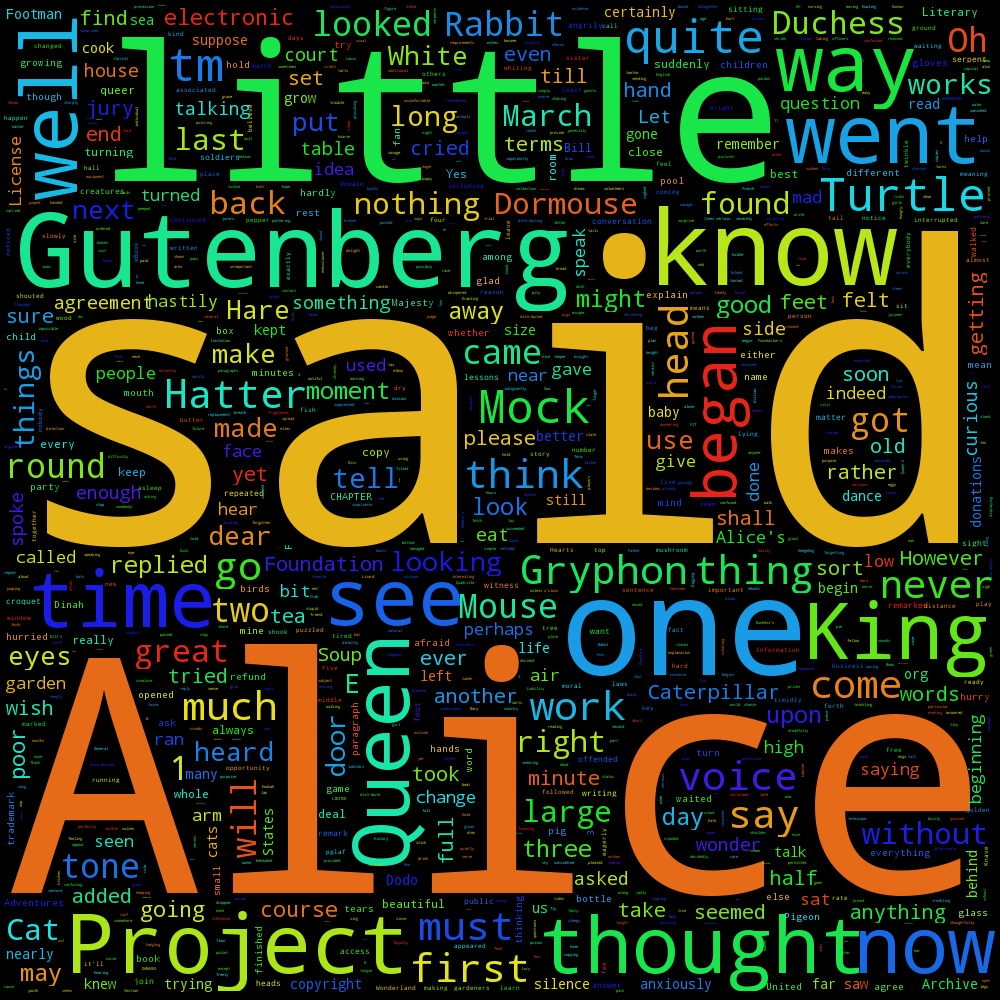
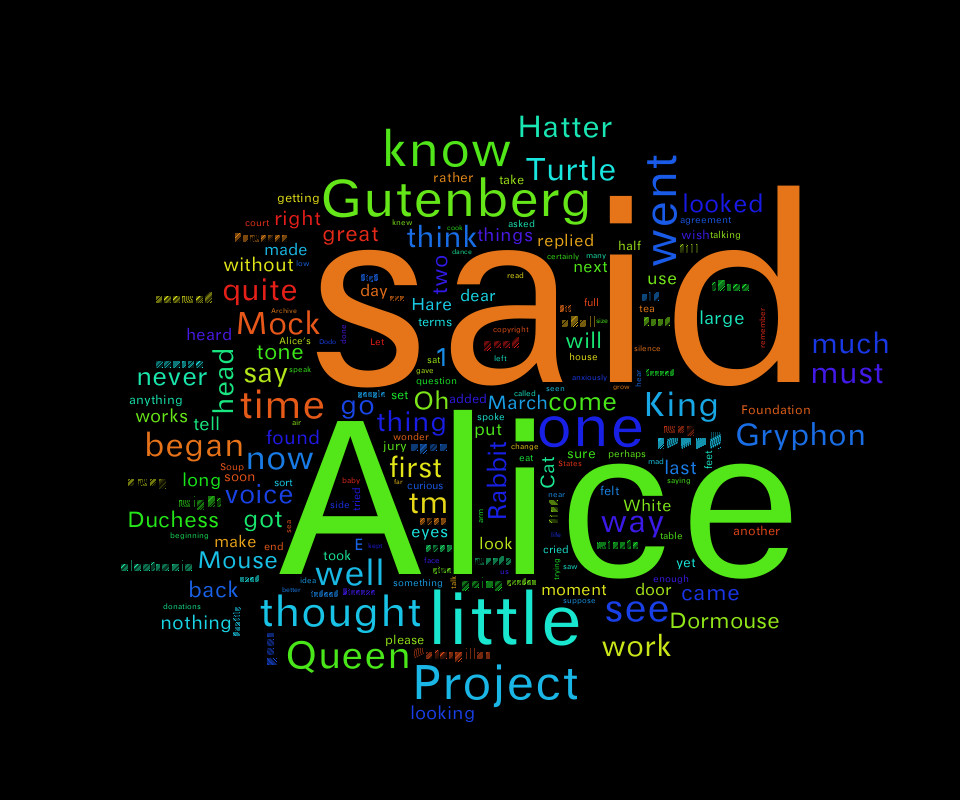
v2

diff --git a/easywordcloud/layout_cloud.py b/easywordcloud/layout_cloud.py
@@ -25,13 +25,13 @@ def get_default_font():
     highly recommend you prepare the fonts youself instead of using this function"""
     if _platform == "linux" or _platform == "linux2":
         # linux, sorry, i dont know much
-        FONT_PATH = None
+        FONT_PATH = '/usr/share/fonts/truetype/droid/DroidSansMono.ttf'
     elif _platform == "darwin":
         # OS X
         FONT_PATH = "/Library/Fonts/hei.ttf"
     elif _platform == "win32":
         # Windows...
-        FONT_PATH = "c:/windows/fonts/simhei.ttf"
+        FONT_PATH = "c:/windows/fonts/msyh.ttf"
 
     return FONT_PATH
 
@@ -72,7 +72,8 @@ def draw_word_cloud(words, width=800, height=600, output_file_name=None, font_pa
     for font_scale in [0.1, 0.5, 1, 2, 5, 10, 20, 50]:
         elements, score, fill_rate, show_rate = fit_words(
             words, width=width, height=height, margin=2, scale=font_scale)
-        print('scale:', font_scale, 'score:', score, 'show_rate:', show_rate, 'fille_rate:', fill_rate)
+        if debug >= 1:
+            print('scale:', font_scale, 'score:', score, 'show_rate:', show_rate, 'fille_rate:', fill_rate)
         if score > best_score:
             best_elements, best_score = elements, score
         if score == 0.0:

diff --git a/simple2.py b/simple2.py
@@ -10,15 +10,21 @@ height = 800
 best_elements = None
 best_score = 0
 
-
-#test case 1
-
+#test case 2
 text = open(path.join(d, 'examples/constitution.txt')).read()
-# Separate into a list of (word, frequency).
 words = easywordcloud.process_text(text)
-#$words = [(u'你好', 3), (u'非常好', 2), (u'大家好', 1)]#0.5 0.333 0.16
-# Compute the position of the words.
-a = ''
-while a != 'e':
-    easywordcloud.draw_word_cloud(words, width, height, None, None)
-    a = raw_input('press any key')
+easywordcloud.draw_word_cloud(words, width, height, path.join(d, 'examples/constitution.png'))
+
+
+#test case 2
+text = open(path.join(d, 'examples/alice.txt')).read()
+words = easywordcloud.process_text(text)
+easywordcloud.draw_word_cloud(words, width, height, path.join(d, 'examples/alice.png'), None)
+
+#test case 3
+words = [(u'ワード', 0.7), (u'クラウド', 0.6)]
+easywordcloud.draw_word_cloud(words, width, height, path.join(d, 'examples/japannese.png'), '/Library/Fonts/Andale Mono.ttf')
+
+
+words = [(u'标签', 3), (u'云', 2)]
+easywordcloud.draw_word_cloud(words, width, height, path.join(d, 'examples/chinese.png'))

diff --git a/examples/simple.py b/examples/simple.py
@@ -1,24 +1,16 @@
 #!/usr/bin/env python2
 #coding=utf-8
 from os import path
-import easywordcloud
+from . import easywordcloud
 
 d = path.dirname(__file__)
 
-width = 800
-height = 400
+width = 960
+height = 800
 best_elements = None
 best_score = 0
 
-
-#test case 1
-
-text = open(path.join(d, 'examples/constitution.txt')).read()
+text = open(path.join(d, 'constitution.txt')).read()
 # Separate into a list of (word, frequency).
 words = easywordcloud.process_text(text)
-#$words = [(u'你好', 3), (u'非常好', 2), (u'大家好', 1)]#0.5 0.333 0.16
-# Compute the position of the words.
-a = ''
-while a != 'e':
-    easywordcloud.draw_word_cloud(words, width, height, path.join(d, 'constitution.png'), None)
-    a = raw_input('press any key')
+easywordcloud.draw_word_cloud(words, width, height, path.join(d, 'constitution.png'), None)
